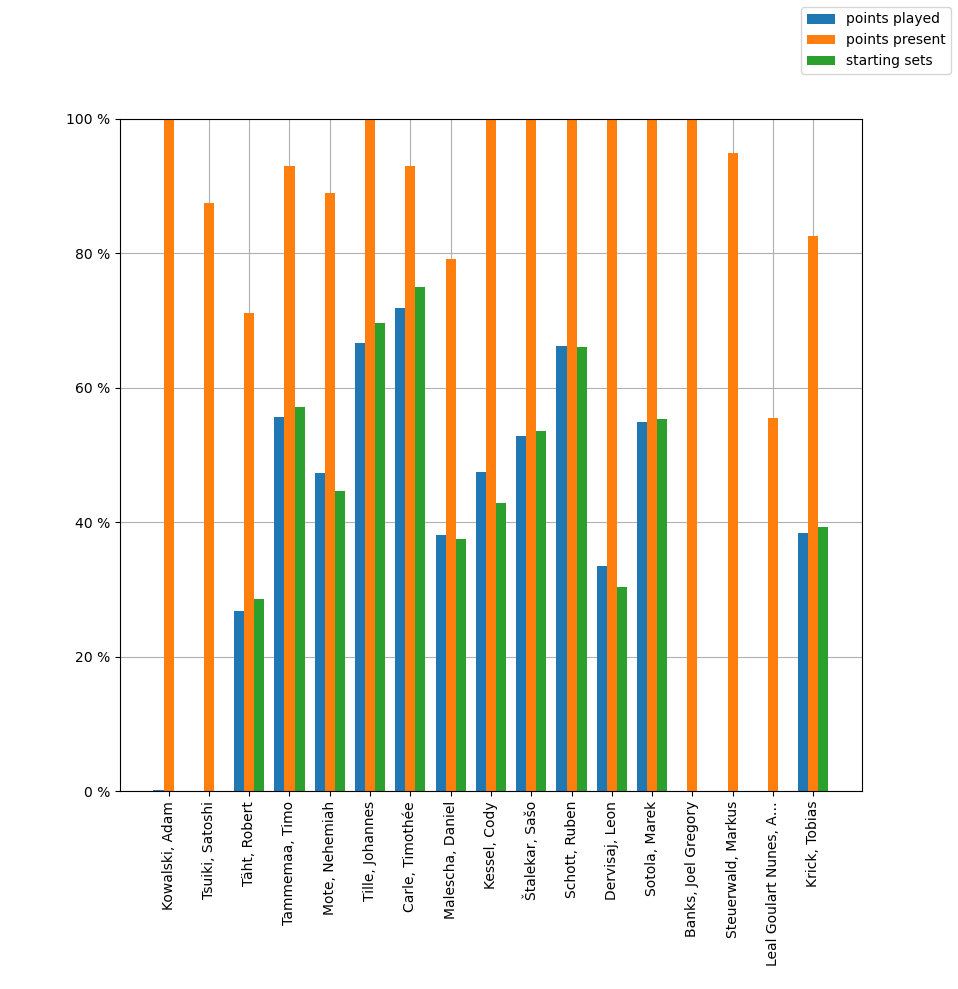
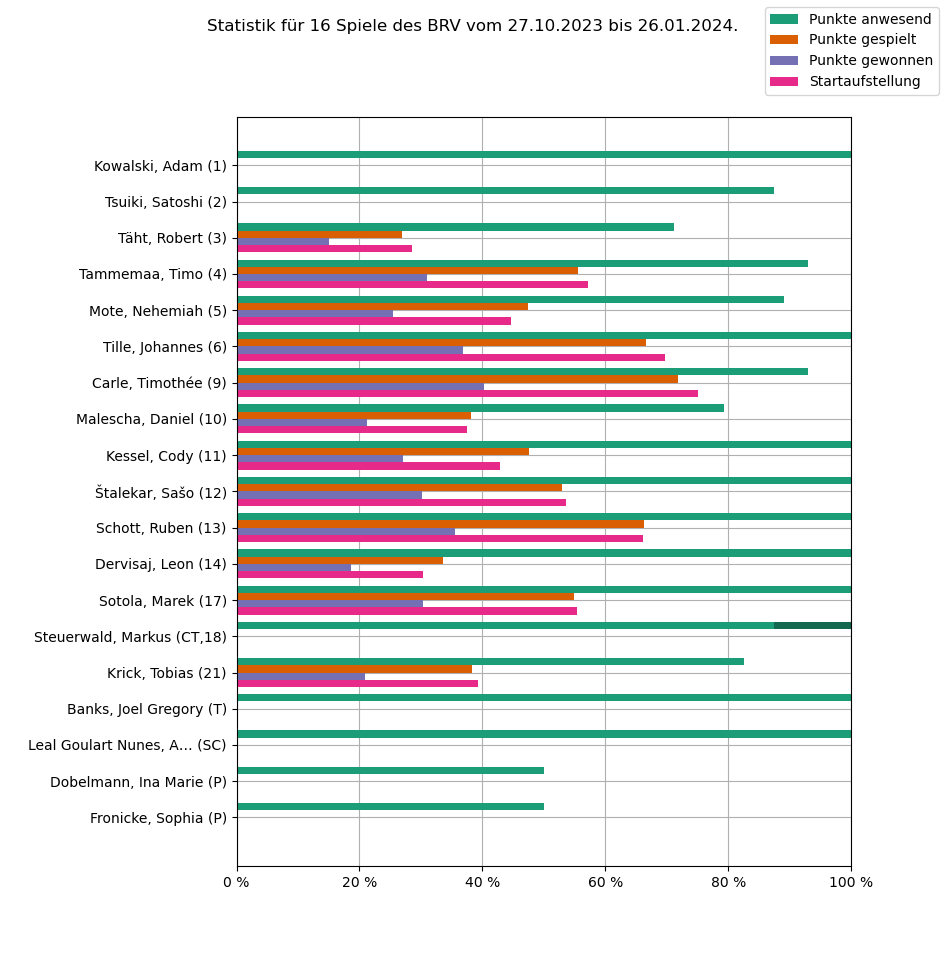
* updated README.md * moved saving and loading of statistics file to functions

diff --git a/utils.py b/utils.py
@@ -1,4 +1,6 @@
 import os
+import shutil
+import pickle
 import re
 import datetime
 from dataclasses import dataclass, field
@@ -141,3 +143,24 @@ def list_saved_team_names():
 
     name_str=', '.join(name_list)
     return name_str
+
+def save_stat_file(stat, team_name):
+    fname_stat=f"./files/statistics_{team_name}.dat"
+    fname_stat_backup=f"./files/statistics_{team_name}_backup.dat"
+    if not os.path.isdir('./files'):
+        os.mkdir('./files/')
+    if os.path.isfile(fname_stat):
+        shutil.copy(fname_stat, fname_stat_backup)
+    with open(fname_stat, 'wb') as f:
+        pickle.dump([stat], f)
+
+def load_stat_file(team_name):
+    fname_stat=f"./files/statistics_{team_name}.dat"
+    fname_stat_backup=f"./files/statistics_{team_name}_backup.dat"
+    if not os.path.isfile(fname_stat):
+        raise Exception('Could not find file {fname_stat} with game statistics. Call new_statistics.py.')
+    # copy old file as backup
+    shutil.copy(fname_stat, fname_stat_backup)
+    with open(fname_stat, 'rb') as f:
+        stat = pickle.load(f)[0]
+    return stat

diff --git a/plot_stats.py b/plot_stats.py
@@ -18,13 +18,12 @@ if len(sys.argv)==1:
 team_name=sys.argv[1]
 # team_name='SVP'
 
-fname=f"./files/statistics_{team_name}.dat"
-if not os.path.isfile(fname):
-    raise Exception('Could not find file with game statistice call main.py with the correct team names set.')
-with open(fname, 'rb') as f:
-    stat = pickle.load(f)[0]
+stat=load_stat_file(team_name)
 
-print(stat)
+# print(stat)
+
+if not os.path.isdir('./figures'):
+    os.mkdir('./figures/')
 
 # sort players according to the smallest number in numbers list (officials go last)
 smallest_num=[]
@@ -279,11 +278,11 @@ ax1.set_yticks(yy, ylabel)
 ax1.set_xlim([0,1])
 xticks=ax1.get_xticks()
 ax1.set_xticks(xticks, ["{x:.0f} %".format(x=100*x) for x in xticks])
-fig1.subplots_adjust(left=0.2)
+fig1.subplots_adjust(left=0.25)
 # fig1.legend([h1._label,h2._label,h3._label])
 fig1.legend(plot_label)
 fig1.suptitle(title)
-# plt.show()
+plt.show()
 fig1.savefig(f"figures/{team_name}_proportions.png")
 
 

diff --git a/add_scoresheet2stats.py b/add_scoresheet2stats.py
@@ -29,14 +29,7 @@ fname_scoresheet=sys.argv[2]
 
 
 # Load current statistics for team                                             #
-fname_stat=f"./files/statistics_{team_name}.dat"
-fname_stat_backup=f"./files/statistics_{team_name}_backup.dat"
-if not os.path.isfile(fname_stat):
-    raise Exception('Could not find file {fname_stat} with game statistics. Call new_statistics.py.')
-shutil.copy(fname_stat, fname_stat_backup)
-with open(fname_stat, 'rb') as f:
-    # copy old file as backup
-    stat = pickle.load(f)[0]
+stat=load_stat_file(team_name)
 
 
 # Extract and add statistics from scoresheet                                   #
@@ -44,5 +37,4 @@ stat.add_scoresheet(fname_scoresheet)
 
 
 # Save new statistics                                                          #
-with open(f"./files/statistics_{team_name}.dat", 'wb') as f:
-    pickle.dump([stat], f)
+save_stat_file(stat, team_name)

diff --git a/new_statistics.py b/new_statistics.py
@@ -44,10 +44,5 @@ for fname in scoresheets:
     stat.add_scoresheet(fname)
 
 
-# Save new statistics (copying old file to backup if found)
-fname_stat=f"./files/statistics_{team_name}.dat"
-fname_stat_backup=f"./files/statistics_{team_name}_backup.dat"
-if os.path.isfile(fname_stat):
-    shutil.copy(fname_stat, fname_stat_backup)
-with open(fname_stat, 'wb') as f:
-    pickle.dump([stat], f)
+# Save new statistics 
+save_stat_file(stat, team_name)

diff --git a/README.md b/README.md
@@ -4,13 +4,15 @@ Automatically read DVV Volleyball scoresheets and extract player statistics.
 ## Features
 - Read player information (including liberos and officials), starting rotation and substitutions from score sheet.
 - Compile list of player statistics including:
-    - Number of points played by each person in each match.
     - Number of points present for each person in each match.
+    - Number of points played by each person in each match.
     - Number of sets in starting rotation for each peron in each match.
+- Export table of player statistics.
 - Plot statistics.
 
 <img src='./README_scoresheet_sample.png' alt='score sheet' height="500">
-<img src='./README_plot_sample.png' alt='player statistics' height="500">
+<img src='./README_plot_sample.png' alt='plot of player statistics' height="500">
+<img src='./README_table_sample.png' alt='table of player statistics' height="500">
 <!--![score sheet](README_scoresheet_sample.png "Scoresheet")-->
 <!--![player statistics](README_plot_sample.png "Player statistics")-->
 
@@ -28,31 +30,40 @@ Clone this repository to your desired folder:
 ```
 
 ### Usage
-1. Change the `path`, `team_name` and `team_name_regex` variables in `main.py`. 
-    - `path`: Path to a directory with the scoresheets as pdf files.
-    - `team_name`: A short name (acronym) of the team. The name can be arbitrary.
-    - `team_name_regex`: A regular expression string that is used to find instances of the team name in the score sheet. The name must match the one given in the score sheet.
-2. Create directories for files and figures.
-
-    ```
-        mkdir files; mkdir figures
-    ```
+1. Download score sheets into the `./scoresheets/<team_name>/` directory. `team_name` can be anything and must be passed later.
 
 2. Run 
 
     ```
-    python3 main.py
+    python3 new_statistics.py <team_name> <team_name_regex>
     ```
 
-     to read all pdf files in the directory given above. This saves a file containing the player statistics to `./files/`.
+    to read all pdf files in the directory given above. This saves a file containing the player statistics to `./files/statistics_<team_name>.dat`.
 
-3. Run 
+    - `team_name` can be anything
+    - `team_name_regex` must be a regular expression string that matches the team name (or part of it) given in the title of the score sheet **AND** the title of the player list.
+    
+    Example:
+
+    ```
+    python3 new_statistics.py BRV 'BERLIN RECYCLING|Berlin'
+    ```
+
+3. (optional) Run
+
+    ```
+    python3 add_scoresheet2stats.py <team_name> <path/to/scoresheet.pdf>
+    ```
+
+    to add additional score sheets to  `./files/statistics_<team_name>.dat` created previously.
+
+4. Run 
 
     ```
     python3 plot_stats.py <team_name>
     ```
 
-    to read the statistics file just created and plot the result.
+    to read the statistics file created previously and export a table and plot of the result.
 
 ## Authors
 
